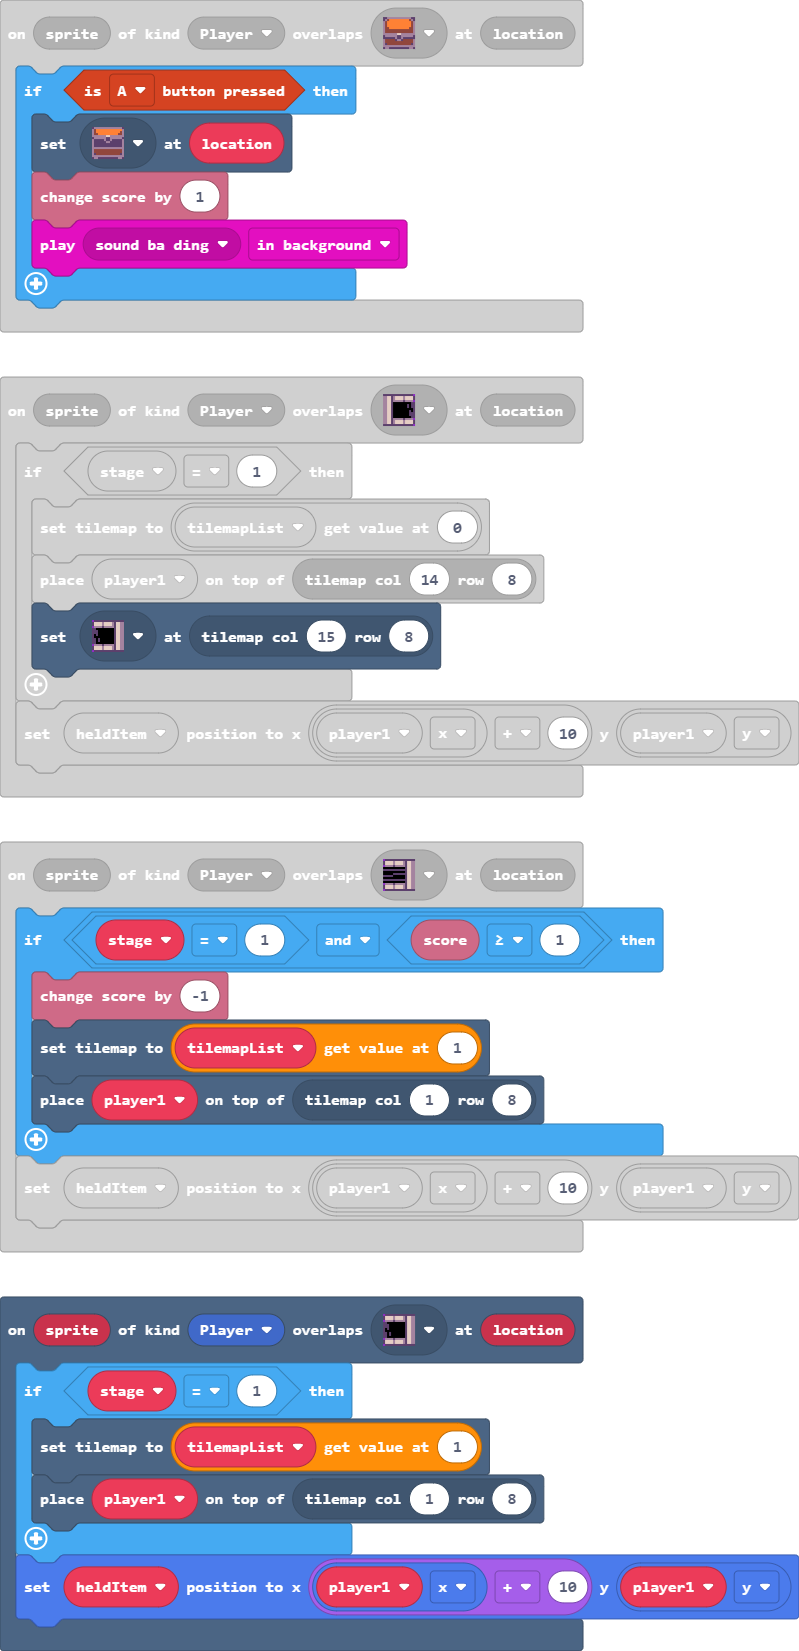
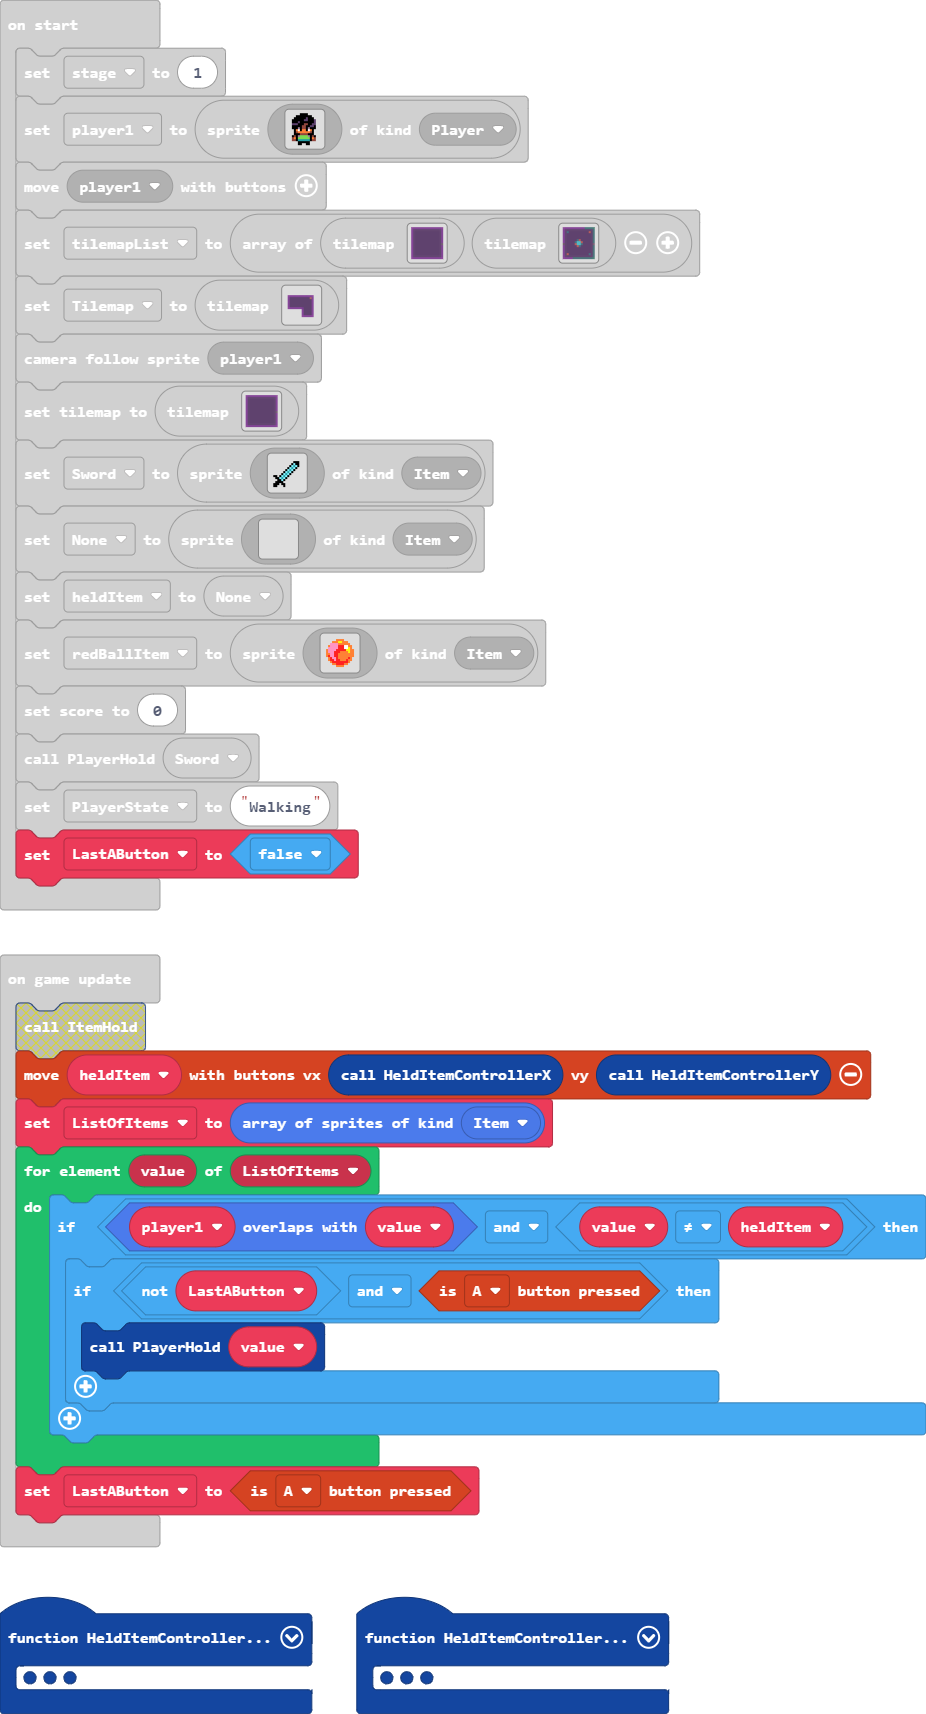
Restore '4/11/2023, 9:06:50 AM slightly scuffed pickup/dropoff'

diff --git a/tilemap.g.ts b/tilemap.g.ts
@@ -285,65 +285,8 @@ namespace myTiles {
 . . . . . . . . . . . . . . . . 
 . . . . . . . . . . . . . . . . 
 `, [myTiles.transparency16], TileScale.Sixteen);
-            case "level10":
[1 lines of base64/hex data omitted]
-2 2 2 2 2 2 2 2 2 2 2 2 2 2 2 2 
-2 . . . . . . . . . . . . . . 2 
-2 . . . . . . . . . . . . . . 2 
-2 . . . . . . . . . . . . . . 2 
-2 . . . . . . . . . . . . . . 2 
-2 . . . . . . . . . . . . . . 2 
-2 . . . . . . . . . . . . . . 2 
-2 . . . . . . . . . . . . . . 2 
-. . . . . . . . . . . . . . . 2 
-2 . . . . . . . . . . . . . . 2 
-2 . . . . . . . . . . . . . . 2 
-2 . . . . . . . . . . . . . . 2 
-2 . . . . . . . . . . . . . . 2 
-2 . . . . . . . . . . . . . . 2 
-2 . . . . . . . . . . . . . . 2 
-2 2 2 2 2 2 2 2 2 2 2 2 2 2 2 2 
-`, [myTiles.transparency16,sprites.dungeon.purpleOuterNorth1,sprites.dungeon.purpleOuterSouthEast,sprites.dungeon.purpleOuterNorthWest,sprites.dungeon.purpleOuterSouth1,sprites.dungeon.purpleOuterSouth0,sprites.dungeon.purpleOuterWest0,sprites.dungeon.darkGroundCenter,sprites.dungeon.darkGroundNorthWest0,sprites.dungeon.darkGroundSouthWest0,sprites.dungeon.darkGroundSouthEast0,sprites.dungeon.darkGroundNorthEast0,sprites.dungeon.darkGroundNorth,sprites.dungeon.darkGroundWest,sprites.dungeon.darkGroundSouth,sprites.dungeon.darkGroundEast,sprites.dungeon.doorOpenWest,sprites.dungeon.greenOuterSouth0,sprites.dungeon.greenOuterNorthEast,sprites.dungeon.greenOuterSouthWest,sprites.dungeon.greenOuterEast1,sprites.dungeon.greenOuterNorth0,myTiles.tile3,myTiles.tile4,sprites.dungeon.collectibleInsignia,sprites.dungeon.doorOpenEast], TileScale.Sixteen);
-            case "level17":
-            case "level17":return tiles.createTilemap(hex`1000100000000000000000000000000000000000000000000000000000000000000000000000000000000000000000000000000000000000000000000000000000000000000000000000000000000000000000000000000000000000000000000000000000000000000000000000000000000000000000000000000000000000000000000000000000000000000000000000000000000000000000000000000000000000000000000000000000000000000000000000000000000000000000000000000000000000000000000000000000000000000000000000000000000000000000000000000000000000000000000000000000000000000000000000000000000000`, img`
-. . . . . . . . . . . . . . . . 
-. . . . . . . . . . . . . . . . 
-. . . . . . . . . . . . . . . . 
-. . . . . . . . . . . . . . . . 
-. . . . . . . . . . . . . . . . 
-. . . . . . . . . . . . . . . . 
-. . . . . . . . . . . . . . . . 
-. . . . . . . . . . . . . . . . 
-. . . . . . . . . . . . . . . . 
-. . . . . . . . . . . . . . . . 
-. . . . . . . . . . . . . . . . 
-. . . . . . . . . . . . . . . . 
-. . . . . . . . . . . . . . . . 
-. . . . . . . . . . . . . . . . 
-. . . . . . . . . . . . . . . . 
-. . . . . . . . . . . . . . . . 
-`, [myTiles.transparency16], TileScale.Sixteen);
-            case "level18":
-            case "level18":return tiles.createTilemap(hex`1000100000000000000000000000000000000000000000000000000000000000000000000000000000000000000000000000000000000000000000000000000000000000000000000000000000000000000000000000000000000000000000000000000000000000000000000000000000000000000000000000000000000000000000000000000000000000000000000000000000000000000000000000000000000000000000000000000000000000000000000000000000000000000000000000000000000000000000000000000000000000000000000000000000000000000000000000000000000000000000000000000000000000000000000000000000000000`, img`
-. . . . . . . . . . . . . . . . 
-. . . . . . . . . . . . . . . . 
-. . . . . . . . . . . . . . . . 
-. . . . . . . . . . . . . . . . 
-. . . . . . . . . . . . . . . . 
-. . . . . . . . . . . . . . . . 
-. . . . . . . . . . . . . . . . 
-. . . . . . . . . . . . . . . . 
-. . . . . . . . . . . . . . . . 
-. . . . . . . . . . . . . . . . 
-. . . . . . . . . . . . . . . . 
-. . . . . . . . . . . . . . . . 
-. . . . . . . . . . . . . . . . 
-. . . . . . . . . . . . . . . . 
-. . . . . . . . . . . . . . . . 
-. . . . . . . . . . . . . . . . 
-`, [myTiles.transparency16], TileScale.Sixteen);
             case "level12":
[2 lines of base64/hex data omitted]
 2 2 2 2 2 2 2 2 2 2 2 2 2 2 2 2 
 2 . . . . . . . . . . . . . . 2 
 2 . . . . . . . . . . . . . . 2 
@@ -360,7 +303,26 @@ namespace myTiles {
 2 . . . . . . . . . . . . . . 2 
 2 . . . . . . . . . . . . . . 2 
 2 2 2 2 2 2 2 2 2 2 2 2 2 2 2 2 
-`, [myTiles.transparency16,sprites.dungeon.darkGroundNorthWest0,sprites.dungeon.purpleOuterEast0,sprites.dungeon.purpleOuterNorthEast,sprites.dungeon.purpleOuterNorth1,sprites.dungeon.purpleOuterNorthWest,sprites.dungeon.purpleOuterWest0,sprites.dungeon.purpleOuterSouthEast,sprites.dungeon.purpleOuterSouth0,sprites.dungeon.purpleOuterSouthWest,sprites.dungeon.darkGroundCenter,sprites.dungeon.darkGroundSouthWest0,sprites.dungeon.darkGroundSouthEast0,sprites.dungeon.darkGroundNorthEast0,sprites.dungeon.darkGroundNorth,sprites.dungeon.darkGroundWest,sprites.dungeon.darkGroundSouth,sprites.dungeon.darkGroundEast,myTiles.tile1,sprites.dungeon.doorClosedEast], TileScale.Sixteen);
+`, [myTiles.transparency16,sprites.dungeon.darkGroundNorthWest0,sprites.dungeon.doorClosedEast,sprites.dungeon.purpleOuterEast0,sprites.dungeon.purpleOuterNorthEast,sprites.dungeon.purpleOuterNorth1,sprites.dungeon.purpleOuterNorthWest,sprites.dungeon.purpleOuterWest0,sprites.dungeon.purpleOuterSouthEast,sprites.dungeon.purpleOuterSouth0,sprites.dungeon.purpleOuterSouthWest,sprites.dungeon.darkGroundCenter,sprites.dungeon.darkGroundSouthWest0,sprites.dungeon.darkGroundSouthEast0,sprites.dungeon.darkGroundNorthEast0,sprites.dungeon.darkGroundNorth,sprites.dungeon.darkGroundWest,sprites.dungeon.darkGroundSouth,sprites.dungeon.darkGroundEast], TileScale.Sixteen);
+            case "level10":
[1 lines of base64/hex data omitted]
+2 2 2 2 2 2 2 2 2 2 2 2 2 2 2 2 
+2 . . . . . . . . . . . . . . 2 
+2 . . . . . . . . . . . . . . 2 
+2 . . . . . . . . . . . . . . 2 
+2 . . . . . . . . . . . . . . 2 
+2 . . . . . . . . . . . . . . 2 
+2 . . . . . . . . . . . . . . 2 
+2 . . . . . . . . . . . . . . 2 
+. . . . . . . . . . . . . . . 2 
+2 . . . . . . . . . . . . . . 2 
+2 . . . . . . . . . . . . . . 2 
+2 . . . . . . . . . . . . . . 2 
+2 . . . . . . . . . . . . . . 2 
+2 . . . . . . . . . . . . . . 2 
+2 . . . . . . . . . . . . . . 2 
+2 2 2 2 2 2 2 2 2 2 2 2 2 2 2 2 
+`, [myTiles.transparency16,sprites.dungeon.purpleOuterNorth1,sprites.dungeon.purpleOuterSouthEast,sprites.dungeon.purpleOuterNorthWest,sprites.dungeon.purpleOuterSouth1,sprites.dungeon.purpleOuterSouth0,sprites.dungeon.purpleOuterWest0,sprites.dungeon.darkGroundCenter,sprites.dungeon.darkGroundNorthWest0,sprites.dungeon.darkGroundSouthWest0,sprites.dungeon.darkGroundSouthEast0,sprites.dungeon.darkGroundNorthEast0,sprites.dungeon.darkGroundNorth,sprites.dungeon.darkGroundWest,sprites.dungeon.darkGroundSouth,sprites.dungeon.darkGroundEast,sprites.dungeon.doorClosedEast,sprites.dungeon.doorOpenWest,sprites.dungeon.greenOuterSouth0,sprites.dungeon.greenOuterNorthEast,sprites.dungeon.greenOuterSouthWest,sprites.dungeon.greenOuterEast1,sprites.dungeon.greenOuterNorth0,myTiles.tile3,myTiles.tile4,sprites.dungeon.collectibleInsignia], TileScale.Sixteen);
         }
         return null;
     })

diff --git a/main.ts b/main.ts
@@ -37,17 +37,17 @@ function PlayerDrop (Sprite2: Sprite) {
     controller.moveSprite(Sprite2, 0, 0)
     Sprite2.setFlag(SpriteFlag.GhostThroughWalls, false)
 }
-function ItemHold () {
-    if (player1.vx == 0) {
-        controller.moveSprite(heldItem, 0, 0)
+function HeldItemControllerY () {
+    if (player1.vy == 0) {
         heldItem.setPosition(player1.x + 10, player1.y)
-        Stopped = true
+        StoppedY = true
+        return 0
     } else {
-        if (Stopped) {
+        if (StoppedY) {
             heldItem.setPosition(player1.x + 10, player1.y)
         }
-        controller.moveSprite(heldItem)
-        Stopped = false
+        StoppedY = false
+        return 100
     }
 }
 scene.onOverlapTile(SpriteKind.Player, sprites.dungeon.doorOpenWest, function (sprite, location) {
@@ -58,7 +58,22 @@ scene.onOverlapTile(SpriteKind.Player, sprites.dungeon.doorOpenWest, function (s
     }
     heldItem.setPosition(player1.x + 10, player1.y)
 })
+function HeldItemControllerX () {
+    if (player1.vx == 0) {
+        heldItem.setPosition(player1.x + 10, player1.y)
+        Stopped = true
+        return 0
+    } else {
+        if (Stopped) {
+            heldItem.setPosition(player1.x + 10, player1.y)
+        }
+        Stopped = false
+        return 100
+    }
+}
+let ListOfItems: Sprite[] = []
 let Stopped = false
+let StoppedY = false
 let heldItem: Sprite = null
 let None: Sprite = null
 let tilemapList: tiles.TileMapData[] = []
@@ -146,6 +161,16 @@ let redBallItem = sprites.create(img`
 info.setScore(0)
 PlayerHold(Sword)
 let PlayerState = "Walking"
+let LastAButton = false
 game.onUpdate(function () {
-    ItemHold()
+    controller.moveSprite(heldItem, HeldItemControllerX(), HeldItemControllerY())
+    ListOfItems = sprites.allOfKind(SpriteKind.Item)
+    for (let value of ListOfItems) {
+        if (player1.overlapsWith(value) && value != heldItem) {
+            if (!(LastAButton) && controller.A.isPressed()) {
+                PlayerHold(value)
+            }
+        }
+    }
+    LastAButton = controller.A.isPressed()
 })
